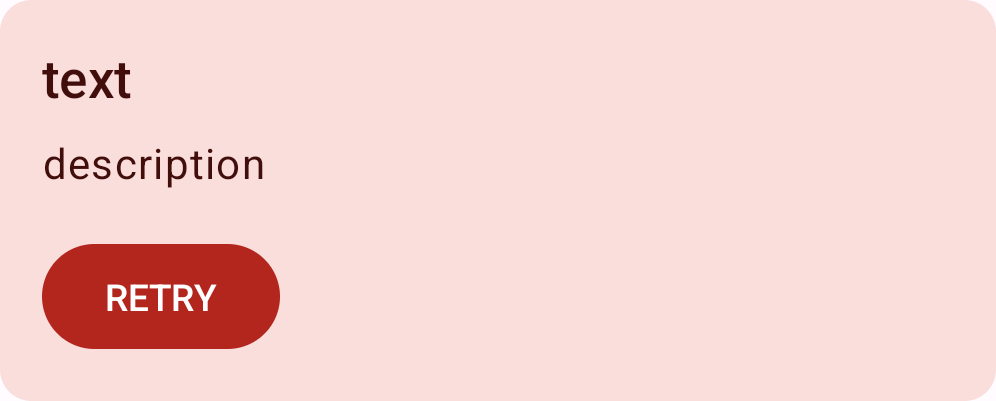
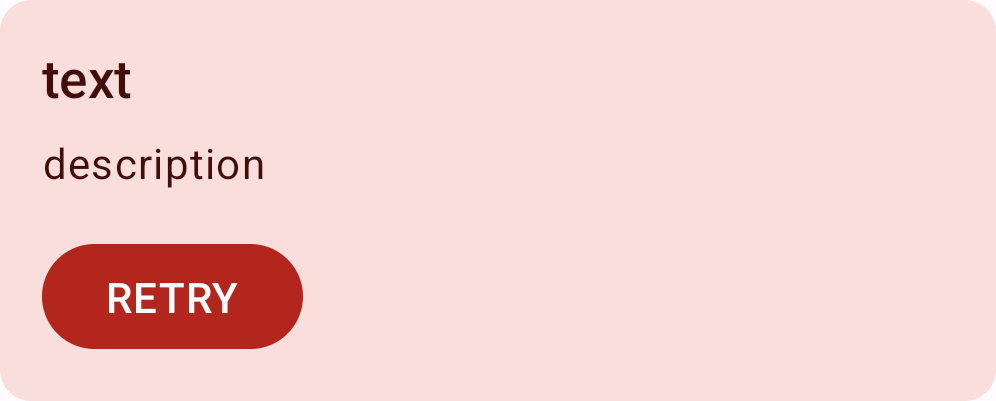
Add HouseDetailContent and HouseDetailRowItem to display house information

Changed region(s): [[0.0934, 0.6883, 0.249, 0.7781], [0.249, 0.5985, 0.3112, 0.8678]]

diff --git a/app-android/src/main/java/com/wolfmontwe/mhp/challenge/mobile/android/app/presentation/feature/house/detail/HouseDetailContent.kt b/app-android/src/main/java/com/wolfmontwe/mhp/challenge/mobile/android/app/presentation/feature/house/detail/HouseDetailContent.kt
@@ -5,15 +5,22 @@
 package com.wolfmontwe.mhp.challenge.mobile.android.app.presentation.feature.house.detail
 
 import android.content.res.Configuration
+import androidx.compose.foundation.layout.Arrangement
 import androidx.compose.foundation.layout.Column
+import androidx.compose.foundation.layout.Row
 import androidx.compose.foundation.layout.fillMaxWidth
+import androidx.compose.foundation.layout.padding
+import androidx.compose.material3.CircularProgressIndicator
 import androidx.compose.runtime.Composable
 import androidx.compose.ui.Modifier
 import androidx.compose.ui.platform.testTag
+import androidx.compose.ui.res.stringResource
 import androidx.compose.ui.tooling.preview.Preview
+import com.wolfmontwe.mhp.challenge.mobile.android.app.R
 import com.wolfmontwe.mhp.challenge.mobile.android.app.domain.entity.House
 import com.wolfmontwe.mhp.challenge.mobile.android.app.domain.entity.Identifier
 import com.wolfmontwe.mhp.challenge.mobile.android.app.presentation.theme.MainTheme
+import com.wolfmontwe.mhp.challenge.mobile.android.app.presentation.theme.MainThemeDimension
 
 @Composable
 fun HouseDetailContent(
@@ -23,9 +30,23 @@ fun HouseDetailContent(
     Column(
         modifier = Modifier
             .fillMaxWidth()
+            .padding(MainThemeDimension.spacingDouble)
             .then(modifier)
             .testTag("HouseDetailContent"),
     ) {
+        if (house != null)
+            HouseDetailContentRowItem(
+                label = stringResource(id = R.string.house_detail_content_row_label_name),
+                text = house.name.substringAfter("House ")
+            )
+        else {
+            Row(
+                modifier = Modifier.fillMaxWidth(),
+                horizontalArrangement = Arrangement.Center
+            ) {
+                CircularProgressIndicator()
+            }
+        }
     }
 }
 

diff --git a/app-android/src/main/java/com/wolfmontwe/mhp/challenge/mobile/android/app/presentation/feature/house/detail/HouseDetailContentRowItem.kt b/app-android/src/main/java/com/wolfmontwe/mhp/challenge/mobile/android/app/presentation/feature/house/detail/HouseDetailContentRowItem.kt
@@ -1,0 +1,55 @@
+/*
+ * Copyright (c) 2022. Wolf-Martell Montwé
+ */
+
+package com.wolfmontwe.mhp.challenge.mobile.android.app.presentation.feature.house.detail
+
+import android.content.res.Configuration
+import androidx.compose.foundation.layout.Row
+import androidx.compose.foundation.layout.padding
+import androidx.compose.foundation.layout.width
+import androidx.compose.runtime.Composable
+import androidx.compose.ui.Modifier
+import androidx.compose.ui.tooling.preview.Preview
+import androidx.compose.ui.unit.dp
+import com.wolfmontwe.mhp.challenge.mobile.android.app.presentation.design.atom.BodyLarge
+import com.wolfmontwe.mhp.challenge.mobile.android.app.presentation.design.atom.LabelLarge
+import com.wolfmontwe.mhp.challenge.mobile.android.app.presentation.theme.MainTheme
+import com.wolfmontwe.mhp.challenge.mobile.android.app.presentation.theme.MainThemeDimension
+
+@Composable
+fun HouseDetailContentRowItem(
+    label: String,
+    text: String
+) {
+    Row(
+        modifier = Modifier.padding(vertical = MainThemeDimension.spacingSingle)
+    ) {
+        LabelLarge(
+            text = label,
+            modifier = Modifier
+                .width(80.dp)
+                .padding(end = MainThemeDimension.spacingSingle)
+        )
+        BodyLarge(text = text)
+    }
+}
+
+@Preview(
+    name = "Light preview",
+    showBackground = true,
+)
+@Preview(
+    name = "Dark preview",
+    showBackground = true,
+    uiMode = Configuration.UI_MODE_NIGHT_YES,
+)
+@Composable
+fun HouseCardItemPreview() {
+    MainTheme {
+        HouseDetailContentRowItem(
+            label = "Label",
+            text = "Lorem ipsum"
+        )
+    }
+}

diff --git a/app-android/src/test/java/com/wolfmontwe/mhp/challenge/mobile/android/app/presentation/feature/house/detail/HouseDetailViewModelTest.kt b/app-android/src/test/java/com/wolfmontwe/mhp/challenge/mobile/android/app/presentation/feature/house/detail/HouseDetailViewModelTest.kt
@@ -5,12 +5,9 @@
 package com.wolfmontwe.mhp.challenge.mobile.android.app.presentation.feature.house.detail
 
 import com.wolfmontwe.mhp.challenge.mobile.android.app.domain.GetHouseByIdMock
-import com.wolfmontwe.mhp.challenge.mobile.android.app.domain.GetHousesPaginatedUseCaseMock
 import com.wolfmontwe.mhp.challenge.mobile.android.app.domain.Result
 import com.wolfmontwe.mhp.challenge.mobile.android.app.domain.entity.HouseTestFixture
 import com.wolfmontwe.mhp.challenge.mobile.android.app.domain.entity.Identifier
-import com.wolfmontwe.mhp.challenge.mobile.android.app.presentation.feature.house.list.HouseListViewModel
-import com.wolfmontwe.mhp.challenge.mobile.android.app.presentation.feature.house.list.HouseListViewState
 import com.wolfmontwe.mhp.challenge.mobile.android.app.test.MainDispatcherRule
 import com.wolfmontwe.mhp.challenge.mobile.android.app.test.isOfType
 import com.wolfmontwe.mhp.challenge.mobile.android.app.test.mustEqual

diff --git a/app-android/src/test/java/com/wolfmontwe/mhp/challenge/mobile/android/app/presentation/feature/house/list/HouseListViewModelTest.kt b/app-android/src/test/java/com/wolfmontwe/mhp/challenge/mobile/android/app/presentation/feature/house/list/HouseListViewModelTest.kt
@@ -65,7 +65,8 @@ class HouseListViewModelTest {
     @Test
     fun `SHOULD set error state WHEN use case fails`() = runTestWithStateRecording {
         // GIVEN
-        useCaseGetHousesPaginatedMock.answerGetHouses = { Result.failure(IOException("useCaseGetHousesPaginated failed")) }
+        useCaseGetHousesPaginatedMock.answerGetHouses =
+            { Result.failure(IOException("useCaseGetHousesPaginated failed")) }
         val initialState = STATE_AFTER_INIT
         val loadingState = initialState.copy(isLoading = true)
         val errorState = loadingState.copy(error = "useCaseGetHousesPaginated failed")

diff --git a/app-android/src/main/java/com/wolfmontwe/mhp/challenge/mobile/android/app/presentation/feature/house/detail/HouseDetailViewModel.kt b/app-android/src/main/java/com/wolfmontwe/mhp/challenge/mobile/android/app/presentation/feature/house/detail/HouseDetailViewModel.kt
@@ -12,7 +12,6 @@ import com.wolfmontwe.mhp.challenge.mobile.android.app.domain.Result
 import com.wolfmontwe.mhp.challenge.mobile.android.app.domain.entity.House
 import com.wolfmontwe.mhp.challenge.mobile.android.app.domain.entity.Identifier
 import com.wolfmontwe.mhp.challenge.mobile.android.app.domain.map
-import com.wolfmontwe.mhp.challenge.mobile.android.app.presentation.feature.house.list.HouseListViewState
 import kotlinx.coroutines.CoroutineDispatcher
 import kotlinx.coroutines.Dispatchers
 import kotlinx.coroutines.flow.MutableStateFlow

diff --git a/app-android/src/main/java/com/wolfmontwe/mhp/challenge/mobile/android/app/presentation/feature/house/detail/HouseDetailScreen.kt b/app-android/src/main/java/com/wolfmontwe/mhp/challenge/mobile/android/app/presentation/feature/house/detail/HouseDetailScreen.kt
@@ -16,7 +16,6 @@ import androidx.lifecycle.viewmodel.compose.viewModel
 import com.wolfmontwe.mhp.challenge.mobile.android.app.R.string
 import com.wolfmontwe.mhp.challenge.mobile.android.app.presentation.design.organism.ErrorItem
 import com.wolfmontwe.mhp.challenge.mobile.android.app.presentation.design.template.ScaffoldWithTopBar
-import com.wolfmontwe.mhp.challenge.mobile.android.app.presentation.feature.house.list.HouseListContract
 import com.wolfmontwe.mhp.challenge.mobile.android.app.presentation.theme.MainTheme
 
 @Composable

diff --git a/app-android/src/main/java/com/wolfmontwe/mhp/challenge/mobile/android/app/presentation/theme/MainThemeTypography.kt b/app-android/src/main/java/com/wolfmontwe/mhp/challenge/mobile/android/app/presentation/theme/MainThemeTypography.kt
@@ -100,9 +100,9 @@ val MainTypography = Typography(
     labelLarge = TextStyle(
         fontFamily = font,
         fontWeight = FontWeight.Medium,
-        fontSize = 14.sp,
-        lineHeight = 20.sp,
-        letterSpacing = 0.1.sp,
+        fontSize = 16.sp,
+        lineHeight = 24.sp,
+        letterSpacing = 0.5.sp,
     ),
     labelMedium = TextStyle(
         fontFamily = font,
